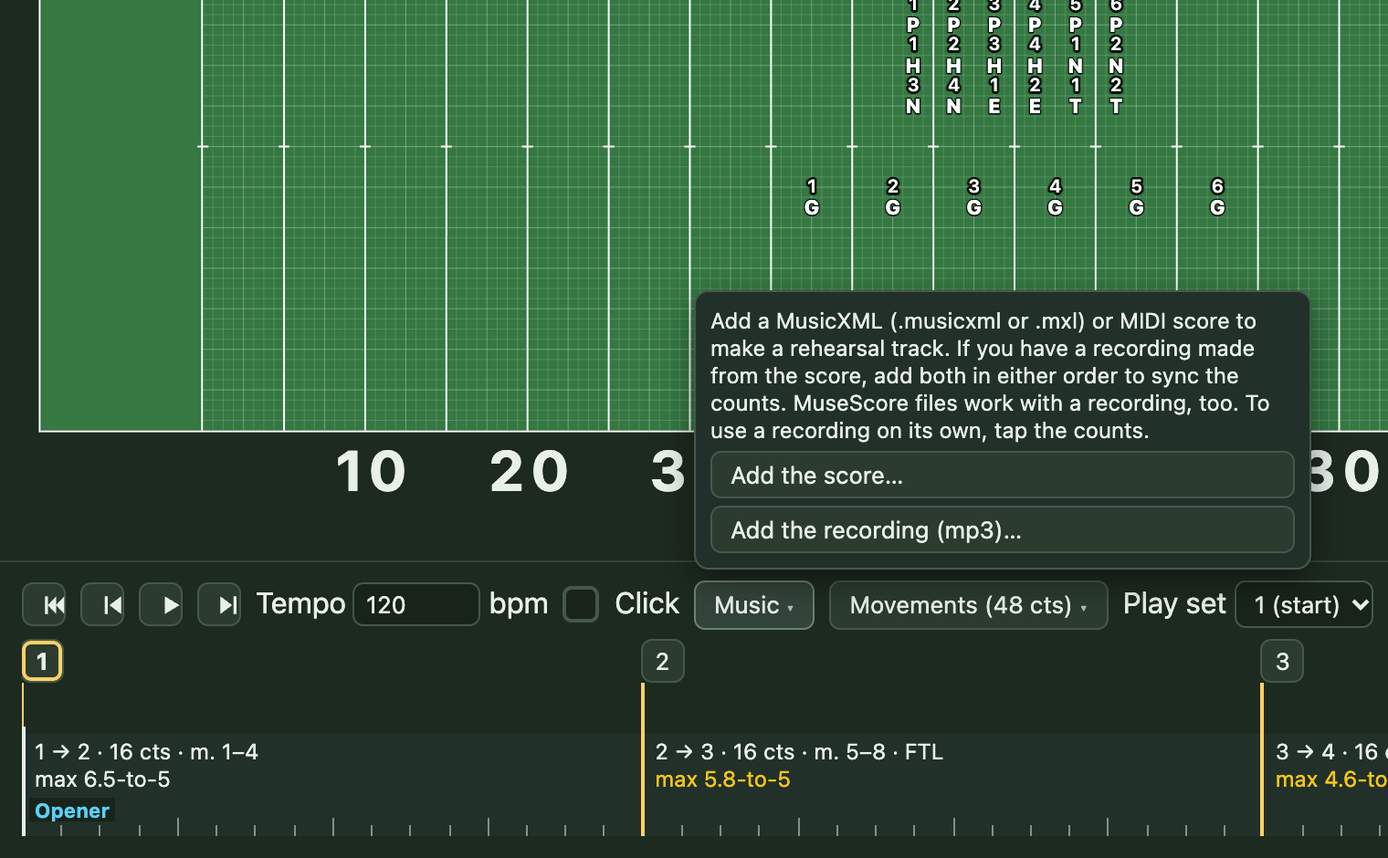
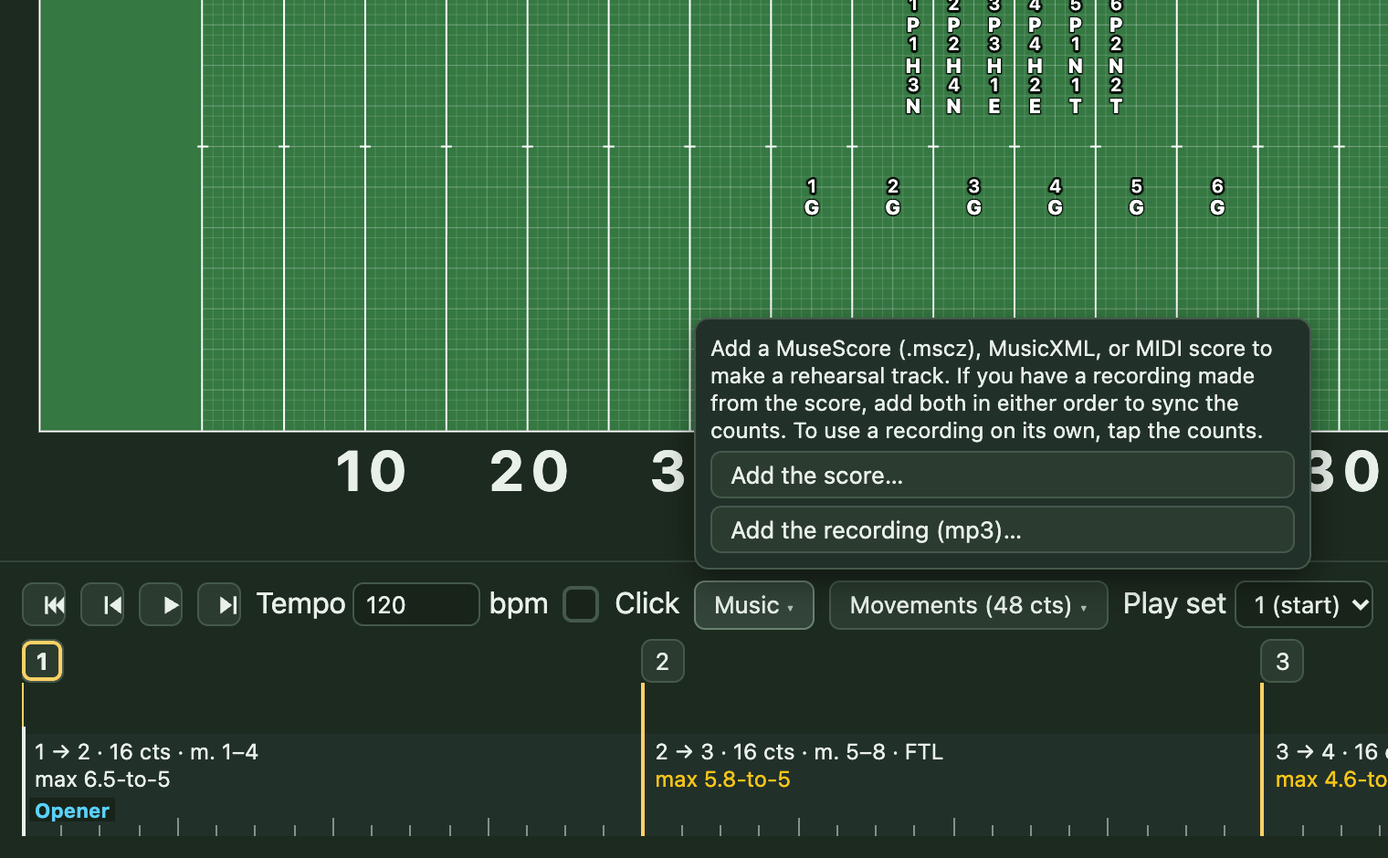
Make rehearsal tracks from native MuseScore scores
Read notes directly from the native score and render them against the same repeated measures and tempo map as the drill counts.

Changed region(s): [[0.4947, 0.3394, 0.9586, 0.5245]]

diff --git a/src/engine/musicxml.ts b/src/engine/musicxml.ts
@@ -271,15 +271,20 @@ async function readZip(buf: ArrayBuffer, what: string): Promise<Record<string, (
 /** The main score file inside a compressed MusicXML (.mxl) zip. */
 export async function unzipMxl(buf: ArrayBuffer): Promise<string> {
   const files = await readZip(buf, '.mxl');
-  const container = files['META-INF/container.xml'] && parseXml(await files['META-INF/container.xml']());
-  const rootfile = container && findDeep(container, 'rootfile')?.attrs['full-path'];
+  return readMxl(files, await scorePaths(files));
+}
+
+function readMxl(files: Record<string, () => Promise<string>>, [rootfile]: string[]): Promise<string> {
   const main = (rootfile && files[rootfile]) ? rootfile : Object.keys(files).find((f) => !f.startsWith('META-INF/') && /\.(musicxml|xml)$/i.test(f));
   if (!main) throw new Error('No score was found inside that .mxl file.');
   return files[main]();
 }
 
-function findDeep(e: El, tag: string): El | undefined {
-  for (const k of e.kids) { if (k.tag === tag) return k; const f = findDeep(k, tag); if (f) return f; }
+async function scorePaths(files: Record<string, () => Promise<string>>): Promise<string[]> {
+  const read = files['META-INF/container.xml'];
+  if (!read) return [];
+  const rootfiles = kid(kid(parseXml(await read()), 'container'), 'rootfiles');
+  return (rootfiles?.kids ?? []).filter((e) => e.tag === 'rootfile').map((e) => e.attrs['full-path']);
 }
 
 /** The score's timing and, when available, its notes for a rehearsal track. File types are detected by content. */
@@ -290,13 +295,15 @@ export async function parseScore(buf: ArrayBuffer): Promise<Midi & { rehearsal?:
   if (sig === 'MThd') return { ...parseMidi(buf), rehearsal: buf };
   if (sig.startsWith('PK')) {
     const files = await readZip(buf, 'score');
-    const mscx = Object.keys(files).find((f) => !f.includes('/') && /\.mscx$/i.test(f)); // a MuseScore .mscz (its parts live in Excerpts/)
-    if (mscx) return parseMscx(await files[mscx]());
-    const { map, rehearsal } = readMusicXml(await unzipMxl(buf), true);
+    const paths = await scorePaths(files);
+    const mscx = paths.find((f) => /\.mscx$/i.test(f) && files[f])
+      ?? Object.keys(files).find((f) => !f.includes('/') && /\.mscx$/i.test(f)); // older archives may lack a manifest
+    if (mscx) return readMscx(await files[mscx]());
+    const { map, rehearsal } = readMusicXml(await readMxl(files, paths), true);
     return { ...map, rehearsal };
   }
-  if (/<museScore\b/.test(new TextDecoder().decode(buf.slice(0, 2000)))) return parseMscx(new TextDecoder().decode(buf)); // an uncompressed .mscx
   const text = new TextDecoder().decode(buf);
+  if (/<museScore\b/.test(text.slice(0, 2000))) return readMscx(text); // an uncompressed .mscx
   if (/<score-(partwise|timewise)\b/.test(text.slice(0, 5000))) {
     const { map, rehearsal } = readMusicXml(text, true);
     return { ...map, rehearsal };
@@ -309,10 +316,15 @@ const frac = (t: string | undefined) => { const [a, b] = (t ?? '').split('/').ma
 const isGrace = (c: El) => c.kids.some((k) => /^(grace|acciaccatura|appoggiatura)/.test(k.tag));
 
 /**
- * A MuseScore 4 score (the .mscx inside a .mscz): measures and their real lengths (an irregular bar's `len`, else
- * its meter), tempo marks (stored in quarters per second), fermatas with their stretch, and whether anything sounds.
+ * A MuseScore score (the .mscx inside a .mscz): measures and their real lengths (an irregular bar's `len`, else
+ * its meter), tempo marks (stored in quarters per second), fermatas with their stretch, and notes for rehearsal.
  */
 export function parseMscx(text: string): Midi & { warnings: string[] } {
+  const { rehearsal: _, ...map } = readMscx(text, false);
+  return map;
+}
+
+function readMscx(text: string, readNotes = true) {
   if (text.length > MAX_BYTES) throw new Error('That file is too big to be a score.');
   const ms = parseXml(text).kids.find((k) => k.tag === 'museScore');
   const version = parseFloat(ms?.attrs.version ?? '');
@@ -326,8 +338,22 @@ export function parseMscx(text: string): Midi & { warnings: string[] } {
   const bars: Bar[] = Array.from({ length: count }, () => ({ len: 0, beats: 4, den: 4, sounding: false, tempos: [] }));
   const holds: Hold[] = [], onsets: [number, number][] = [];
   const marks: BarMarks[] = Array.from({ length: count }, () => ({}));
+  const instruments = new Map<string, number | null>();
+  if (readNotes) {
+    for (const part of score?.kids.filter((e) => e.tag === 'Part') ?? []) {
+      const instrument = kid(part, 'Instrument');
+      const program = museProgram(instrument);
+      for (const staff of part.kids.filter((e) => e.tag === 'Staff')) {
+        const percussion = kid(staff, 'StaffType')?.attrs.group === 'percussion';
+        instruments.set(staff.attrs.id, percussion ? null : program);
+      }
+    }
+  }
+  const parts: RehearsalPart[] = [];
   staves.forEach((st, si) => {
     let beats = 4, den = 4;
+    const program = instruments.get(st.attrs.id);
+    const track: RehearsalPart = { program: program === undefined ? 0 : program, notes: [] };
     // A multi-measure rest is stored as an extra measure in front of the real ones: skip it (MuseScore rebuilds it).
     st.kids.filter((k) => k.tag === 'Measure' && !kid(k, 'multiMeasureRest')).forEach((m, i) => {
       const bar = bars[i];
@@ -339,12 +365,14 @@ export function parseMscx(text: string): Midi & { warnings: string[] } {
         else if (e.tag === 'Jump') {
           const t = (tag: string) => kid(e, tag)?.text.trim() ?? '';
           marks[i].jump = { to: t('jumpTo') || 'start', until: t('playUntil') || 'end', ...(t('continueAt') ? { continueAt: t('continueAt') } : {}), ...(num(kid(e, 'playRepeats')) ? { playRepeats: true } : {}) };
-        } else if (e.tag === 'Spanner' && e.attrs.type === 'Volta' && kid(e, 'Volta')) { // its end is this many bars on
-          const n = num(kid(kid(kid(e, 'next'), 'location'), 'measures')) || 1;
+        } else if (e.tag === 'Spanner' && e.attrs.type === 'Volta' && kid(e, 'Volta')) {
+          const location = kid(kid(e, 'next'), 'location');
+          // A volta can end at the next downbeat or inside its final bar (including the end of the score).
+          const n = Math.max(1, (num(kid(location, 'measures')) || 0) + (frac(kid(location, 'fractions')?.text) > 0 ? 1 : 0));
           for (let k = i; k < Math.min(count, i + n); k++) addEndings(marks[k], endingNumbers(kid(kid(e, 'Volta'), 'endings')?.text));
         }
       }
-      for (const v of m.kids.filter((k) => k.tag === 'voice')) {
+      for (const [vi, v] of m.kids.filter((k) => k.tag === 'voice').entries()) {
         let pos = 0;
         const tup = [1];
         let fermata = 0; // the stretch of a fermata waiting for its chord or rest
@@ -357,8 +385,25 @@ export function parseMscx(text: string): Midi & { warnings: string[] } {
           else if (e.tag === 'Fermata') fermata = num(kid(e, 'timeStretch')) || 2; // MuseScore 4 holds a fermata twice as long by default
           else if ((e.tag === 'Chord' || e.tag === 'Rest') && !isGrace(e)) {
             const t = kid(e, 'durationType')?.text.trim() ?? '';
-            const d = t === 'measure' ? frac(kid(e, 'duration')?.text) * 4 : (DUR[t] ?? 0) * (2 - 1 / 2 ** (num(kid(e, 'dots')) || 0)) * tup[tup.length - 1];
-            if (e.tag === 'Chord') bar.sounding = true;
+            const d = t === 'measure'
+              ? (frac(kid(e, 'duration')?.text) || frac(m.attrs.len) || beats / den) * 4
+              : (DUR[t] ?? 0) * (2 - 1 / 2 ** (num(kid(e, 'dots')) || 0)) * tup[tup.length - 1];
+            if (e.tag === 'Chord') {
+              bar.sounding = true;
+              if (readNotes && Number.isFinite(d) && d > 0) {
+                for (const note of e.kids.filter((k) => k.tag === 'Note')) {
+                  // MuseScore stores the sounding MIDI pitch even when the part is written transposed.
+                  const key = num(kid(note, 'pitch'));
+                  if (!Number.isInteger(key) || key < 0 || key > 127 || num(kid(note, 'play')) === 0) continue;
+                  const ties = note.kids.filter((k) => k.tag === 'Spanner' && k.attrs.type === 'Tie');
+                  track.notes.push({
+                    bar: i, from: pos, to: pos + d, key: track.program === null && (key < 35 || key > 81) ? 38 : key, voice: String(vi),
+                    tieIn: ties.some((k) => !!kid(k, 'prev')),
+                    tieOut: ties.some((k) => !!kid(k, 'next')),
+                  });
+                }
+              }
+            }
             onsets.push([i, pos]);
             if (fermata) { holds.push([i, pos, pos + (d || 0), fermata]); fermata = 0; }
             pos += d || 0;
@@ -369,6 +414,15 @@ export function parseMscx(text: string): Midi & { warnings: string[] } {
       const len = frac(m.attrs.len) * 4; // an irregular bar (a pickup) says how long it really is; otherwise its meter
       bar.len = Number.isFinite(len) ? len : Math.max(bar.len, (beats * 4) / den);
     });
+    if (track.notes.length) parts.push(track);
   });
-  return toMap(bars, holds, onsets, playbackOrder(marks, MAX_MEASURES));
+  const playback = playbackOrder(marks, MAX_MEASURES);
+  return { ...toMap(bars, holds, onsets, playback), rehearsal: { parts, order: playback.order } };
+}
+
+function museProgram(instrument: El | undefined): number | null {
+  if (num(kid(instrument, 'useDrumset')) === 1 || kid(instrument, 'Drum')) return null;
+  const program = kid(kid(instrument, 'Channel'), 'program');
+  const n = Number(program?.attrs.value ?? program?.text);
+  return Number.isInteger(n) && n >= 0 && n <= 127 ? n : 0;
 }

diff --git a/src/engine/musicxml.test.ts b/src/engine/musicxml.test.ts
@@ -104,16 +104,78 @@ describe('counts from a MuseScore file', () => {
     const ms = `<museScore version="4.70"><Score><Staff id="1">
       ${bar('<TimeSig><sigN>4</sigN><sigD>4</sigD></TimeSig>', '<startRepeat/>')}
       ${bar('<Spanner type="Volta"><Volta><endings>1</endings></Volta><next><location><measures>1</measures></location></next></Spanner>', '<endRepeat>2</endRepeat>')}
-      ${bar('<Spanner type="Volta"><prev><location><measures>-1</measures></location></prev></Spanner><Spanner type="Volta"><Volta><endings>2</endings></Volta><next><location><measures>1</measures></location></next></Spanner><Marker><label>fine</label></Marker>')}
+      ${bar('<Spanner type="Volta"><prev><location><measures>-1</measures></location></prev></Spanner><Spanner type="Volta"><Volta><endings>2</endings></Volta><next><location><measures>1</measures><fractions>1/1</fractions></location></next></Spanner>')}
+      ${bar('<Marker><label>fine</label></Marker>')}
       ${bar('<Jump><jumpTo>start</jumpTo><playUntil>fine</playUntil></Jump>')}
     </Staff></Score></museScore>`;
     const m = parseMscx(ms);
-    // 1 2, again 1, 2nd ending 3, on to 4, D.C.: 1, last ending 3, Fine.
-    expect(m.measures.map((x) => x.written ?? null)).toEqual([null, null, 1, 3, 4, 1, 3]);
+    // 1 2, again 1, second ending 3–4, on to 5, D.C.: 1, last ending 3–4, Fine.
+    expect(m.measures.map((x) => x.written ?? null)).toEqual([null, null, 1, 3, 4, 5, 1, 3, 4]);
   });
   it('opens a .mscz (a zip) and rejects scores from before MuseScore 3', async () => {
     expect((await parseScore(await zip({ 'score.mscx': mscx, 'Excerpts/part.mscx': '<museScore version="4.70"/>' }))).measures).toHaveLength(4);
     expect(() => parseMscx('<museScore version="2.06"><Score/></museScore>')).toThrow(/older version/);
+  });
+  it('renders a native archive in the drill’s playback order through repeats and both endings', async () => {
+    // The native forms MuseScore writes for repeat bars, a volta to the next bar, and a volta to the end of the score.
+    const rest = (type: string) => `<Rest><durationType>${type}</durationType></Rest>`;
+    const note = (key: number) => `<Chord><durationType>16th</durationType><Note><pitch>${key}</pitch></Note></Chord>`;
+    const tail = rest('16th') + rest('eighth') + rest('half');
+    const volta = (n: number, location: string) => `<Spanner type="Volta"><Volta><endings>${n}</endings></Volta><next><location>${location}</location></next></Spanner>`;
+    const native = `<museScore version="4.70"><Score>
+      <Part><Staff id="1"/><Instrument id="bb-trumpet"><transposeChromatic>-2</transposeChromatic><Channel><program value="56"/></Channel></Instrument></Part>
+      <Staff id="1">
+        <Measure><startRepeat/><voice><Tempo><tempo>2</tempo></Tempo>${rest('quarter')}${note(58)}${tail}</voice></Measure>
+        <Measure><endRepeat>2</endRepeat><voice><Tempo><tempo>1</tempo></Tempo>
+          ${volta(1, '<measures>1</measures>')}${note(62)}${tail}${rest('quarter')}</voice></Measure>
+        <Measure><voice><Tempo><tempo>1.5</tempo></Tempo>
+          ${volta(2, '<fractions>1/1</fractions>')}${note(65)}${tail}${rest('quarter')}</voice></Measure>
+      </Staff></Score></museScore>`;
+    const archive = await zip({
+      'META-INF/container.xml': '<container><rootfiles><rootfile full-path="score_style.mss"/><rootfile full-path="scores/band.mscx"/></rootfiles></container>',
+      'Excerpts/trumpet.mscx': '<museScore version="4.70"/>',
+      'scores/band.mscx': native,
+    });
+    const { rehearsal, ...map } = await parseScore(archive);
+    expect(map).toEqual(parseMscx(native));
+    if (!rehearsal || rehearsal instanceof ArrayBuffer) throw new Error('Expected native rehearsal notes.');
+    expect(rehearsal.order).toEqual([0, 1, 0, 2]);
+    const bytes = scoreMidi(rehearsal, map);
+    const events = BasicMIDI.fromArrayBuffer(bytes).tracks.flatMap((track) => track.events);
+    expect(events.find((e) => e.statusByte === MIDIMessageTypes.programChange)?.data[0]).toBe(56);
+    const notes = events.filter((e) => e.statusByte === MIDIMessageTypes.noteOn);
+    expect(notes.map((e) => e.data[0])).toEqual([58, 62, 58, 65]);
+    const counts = countsFromMidi(map, [{ name: '1', counts: 0 }, { name: '2', counts: 16, measures: '1–4' }]);
+    expect(counts.matched).toBe(1);
+    const entrances = [2, 5, 10, 13].map((i) => counts.taps[i]);
+    expect(entrances).toEqual([0.5, 2, 6.5, 8]);
+    const midiMap = parseMidi(bytes);
+    expect(notes.map((e) => secondsAt(midiMap, e.ticks))).toEqual(entrances);
+    const audio = await renderMidi(soundBank(), bytes);
+    expectEntrances(audio, entrances);
+  });
+  it('reads chord tones, ties, and percussion from independent staves and voices', async () => {
+    const tie = (edge: 'prev' | 'next') => `<Spanner type="Tie"><${edge}><location><measures>1</measures></location></${edge}></Spanner>`;
+    const native = `<museScore version="3.02"><Score>
+      <Part><Staff id="1"/><Instrument><Channel><program value="71"/></Channel></Instrument></Part>
+      <Part><Staff id="2"/><Instrument><useDrumset>1</useDrumset></Instrument></Part>
+      <Staff id="1">
+        <Measure len="1/4"><voice><Chord><durationType>quarter</durationType>
+          <Note><pitch>60</pitch>${tie('next')}</Note><Note><pitch>64</pitch></Note>
+        </Chord></voice></Measure>
+        <Measure><voice><Chord><durationType>quarter</durationType><Note><pitch>60</pitch>${tie('prev')}</Note></Chord></voice></Measure>
+      </Staff><Staff id="2">
+        <Measure len="1/4"><voice><Rest><durationType>measure</durationType></Rest></voice>
+        <voice><location><fractions>1/8</fractions></location><Chord><durationType>eighth</durationType><Note><pitch>38</pitch></Note></Chord></voice></Measure>
+        <Measure><voice><Rest><durationType>measure</durationType></Rest></voice></Measure>
+      </Staff></Score></museScore>`;
+    const { rehearsal, ...map } = await parseScore(new TextEncoder().encode(native).buffer);
+    if (!rehearsal || rehearsal instanceof ArrayBuffer) throw new Error('Expected native rehearsal notes.');
+    const events = BasicMIDI.fromArrayBuffer(scoreMidi(rehearsal, map)).tracks.flatMap((track) => track.events);
+    const notes = events.filter((e) => (e.statusByte & 0xf0) === MIDIMessageTypes.noteOn);
+    expect(notes.map((e) => [e.ticks, e.statusByte & 15, e.data[0]])).toEqual([[0, 0, 60], [0, 0, 64], [240, 9, 38]]);
+    const release = events.find((e) => e.statusByte === MIDIMessageTypes.noteOff && e.data[0] === 60);
+    expect(release?.ticks).toBe(960);
   });
 });
 
@@ -160,15 +222,8 @@ describe('MusicXML rehearsal tracks', () => {
     const midiMap = parseMidi(bytes);
     expect(noteOns.map((e) => secondsAt(midiMap, e.ticks))).toEqual(entrances);
 
-    const file: Uint8Array = readFileSync(new URL('../../public/sounds/GeneralUser-GS.sf3', import.meta.url));
-    const bank = file.buffer.slice(file.byteOffset, file.byteOffset + file.byteLength) as ArrayBuffer;
-    const audio = await renderMidi(bank, bytes);
-    const sample = (s: number) => Math.round(s * audio.sampleRate);
-    for (const at of entrances) {
-      const first = audio.left.findIndex((x, i) => i >= sample(at - 0.06) && (Math.abs(x) > 0.01 || Math.abs(audio.right[i]) > 0.01));
-      expect(first / audio.sampleRate).toBeGreaterThanOrEqual(at - 0.003);
-      expect(first / audio.sampleRate).toBeLessThan(at + 0.04);
-    }
+    const audio = await renderMidi(soundBank(), bytes);
+    expectEntrances(audio, entrances);
     expect(audio.left.length / audio.sampleRate).toBeCloseTo(secondsAt(map, map.end) + 2, 3);
   });
 
@@ -188,6 +243,20 @@ describe('MusicXML rehearsal tracks', () => {
     expect(release?.ticks).toBe(960);
   });
 });
+
+function soundBank(): ArrayBuffer {
+  const file: Uint8Array = readFileSync(new URL('../../public/sounds/GeneralUser-GS.sf3', import.meta.url));
+  return file.buffer.slice(file.byteOffset, file.byteOffset + file.byteLength) as ArrayBuffer;
+}
+
+function expectEntrances(audio: Awaited<ReturnType<typeof renderMidi>>, entrances: number[]) {
+  for (const at of entrances) {
+    const start = Math.round((at - 0.06) * audio.sampleRate);
+    const first = audio.left.findIndex((x, i) => i >= start && Math.max(Math.abs(x), Math.abs(audio.right[i])) > 0.01);
+    expect(first / audio.sampleRate).toBeGreaterThanOrEqual(at - 0.003);
+    expect(first / audio.sampleRate).toBeLessThan(at + 0.04);
+  }
+}
 
 /** A minimal zip (deflated entries), as MuseScore's .mxl export is. */
 async function zip(files: Record<string, string>): Promise<ArrayBuffer> {

diff --git a/src/ui/Music.tsx b/src/ui/Music.tsx
@@ -112,7 +112,7 @@ export function MusicMenu({ show, setShow, audio, onAudio, useMusic, setUseMusic
     <>
       <Menu label={label} pressed={!!(m && synced(m) && useMusic && audio)} title="Play the drill with the show's recording">
         {(close) => <>
-          {!m && <p style={{ margin: 0, fontSize: 12, maxWidth: 320 }}>Add a MusicXML (.musicxml or .mxl) or MIDI score to make a rehearsal track. If you have a recording made from the score, add both in either order to sync the counts. MuseScore files work with a recording, too. To use a recording on its own, tap the counts.</p>}
+          {!m && <p style={{ margin: 0, fontSize: 12, maxWidth: 320 }}>Add a MuseScore (.mscz), MusicXML, or MIDI score to make a rehearsal track. If you have a recording made from the score, add both in either order to sync the counts. To use a recording on its own, tap the counts.</p>}
           {m && <p style={{ margin: 0, fontSize: 12 }}><strong>{m.name}</strong><br />
             {m.taps.length ? `${m.taps.length} of ${total + 1} counts placed${m.taps.length < total + 1 ? '; later counts keep the last pace' : ''}.` : 'No counts yet: add the score, or tap them.'}</p>}
           {m && !audio && <p role="alert" style={{ margin: 0, fontSize: 12, color: 'var(--warn)' }}>{rehearsal ? "The rehearsal track isn't in this browser. Add the score again and make the track to hear it." : `The recording isn't in this browser. Add ${m.name} again to hear it.`}</p>}

diff --git a/src/engine/scoreMidi.ts b/src/engine/scoreMidi.ts
@@ -20,7 +20,7 @@ export const MAX_TRACK_SECONDS = 30 * 60;
 
 /** Write the notes against the same expanded bar starts and tempo events used by drill counts. */
 export function scoreMidi(score: ScoreNotes, map: Midi): ArrayBuffer {
-  if (!map.end || !score.parts.length) throw new Error('That MusicXML score has no playable notes.');
+  if (!map.end || !score.parts.length) throw new Error('That score has no playable notes.');
   if (!Number.isSafeInteger(map.end) || map.end > 0x0fffffff || secondsAt(map, map.end) > MAX_TRACK_SECONDS) {
     throw new Error('That score is too long for a rehearsal track.');
   }
@@ -82,7 +82,7 @@ export function scoreMidi(score: ScoreNotes, map: Midi): ArrayBuffer {
     // The synthesizer measures duration to the last channel event. Keep any written rests at the end.
     midi.controllerChange(map.end, track, channel, MIDIControllers.allNotesOff, 0);
   }
-  if (midi.tracks.length === 1) throw new Error('That MusicXML score has no playable notes.');
+  if (midi.tracks.length === 1) throw new Error('That score has no playable notes.');
   midi.flush();
   return midi.writeMIDI();
 }

diff --git a/PLAN.md b/PLAN.md
@@ -52,9 +52,9 @@
 - ✅ Music on phones: the locked hosted file carries the recording (encrypted with the show's key); the phone view plays along, with a ♪ Music toggle back to tempo. Share links can't carry audio. Tested by Jason on his phone (the 2010 Closer, ~5.6 MB, hosted in a GitHub repo; gists fail on big files). ✅ One-click **Publish to phones** to the director's own GitHub repository (a fine-grained token kept in the browser). Unchanged files aren't re-downloaded (the browser revalidates; GitHub answers 304). Follow-up: a FreeFORM-run upload service if other directors adopt it (no GitHub account needed).
 - ✅ Counts from the score's MIDI (for audio rendered from the score): each set's counts placed in its typed measures. Bars no set covers get a hold sub-set (4A). Checked on the 2008 Mario drill + its MuseScore render (14 of 14 sets, with hold 4A for the m. 33 G.P.).
 - Automatic count finding from a recording alone (`src/engine/beats.ts`, not in the app): on the 2008 Finale-playback mp3s it agreed with the score only ~half the time (half/double-time slips, unrendered sections), so it stays out until it's better; a hybrid (tap a few downbeats, fill from the score, nudge ±60 ms) is the likely next step for real recordings.
-- ✅ Music from MuseScore: **Add the score…** and **Add the recording…**, in either order; the second completes it (Jason: two buttons = two steps). Later, if the export step still bothers: FreeFORM rendering the audio itself (a browser synth and a ~40 MB sound library; MuseScore-basic sound, not Muse Sounds).
+- ✅ Music from MuseScore: **Add the score…** and **Add the recording…**, in either order; the second completes it (Jason: two buttons = two steps).
 - ✅ Music follow-ups: re-tap from a given count; the recording's waveform on the timeline, aligned to the counts; counts from the MuseScore file itself (.mscz), MusicXML or .mxl (no MIDI needed; fermatas as MuseScore plays them). Repeats, endings, D.C., D.S., Fine, and Coda played out in MusicXML and MuseScore files, with bars numbered in the order heard.
-- ✅ Rehearsal tracks from MIDI, MusicXML, and compressed MusicXML (.mxl): rendered in the browser with GeneralUser GS and stored like recordings. MusicXML notes and drill counts use the same playback order and tempo map through repeats and endings. Next: native MuseScore files; later, marching percussion sounds.
+- ✅ Rehearsal tracks from native MuseScore (.mscz), MusicXML (.musicxml and .mxl), and MIDI. The notes and drill counts use the same playback order and tempo map through repeats and endings. Tracks use GeneralUser GS and are stored like recordings. Later: marching percussion sounds.
 - ✅ Basketball court (94 by 50 feet, with its lines) and a custom floor sized in feet: coordinates from the center line and the nearer front or back edge; drawn on the field, phones, and charts. Picked when you start a show (**New** asks for the title and the surface, remembering the last one), and on the blank field's Start note. Follow-ups: **Place exactly** on floors; a numbered tarp grid; parade routes.
 - ✅ Pyware 3D .3dj import (sets, counts, notes, measures, sections from symbols/figures, hashes). ✅ Set names from the notes (2A, 3A…) and count-by-count paths for moves that aren't straight; ✅ their path lines follow the real route in the editor. ✅ A follow-the-leader that Pyware saved as straight lines (the dots collapse onto one spot mid-move) is rebuilt as an FTL group (2026-11-10). Printed charts show only each set's spots (Jason). Follow-ups: .3dj files with no sets (backups/drafts); the CaneRidge Part 2/3 variant with no PAGE blocks.
 - ✅ iPhone Duo (foldable): closed = phone (performer view), open = small iPad (editor), switching live on fold and unfold; editor labels shorten at 700 px and under. Checked in emulation at WebKit's published sizes. Follow-ups: a check in Device Hub's iPhone Duo simulator (Xcode 27.1+); (done: a slimmer timeline on short touch screens, about 36% more field on the open Duo on its side); the Device Posture and Viewport Segments APIs (behind Safari feature flags) for a half-folded layout.

diff --git a/DECISIONS.md b/DECISIONS.md
@@ -1706,3 +1706,9 @@ Each entry: timestamp, who decided, context, options considered, decision.
 - FreeFORM already read the bar and tempo map from MusicXML. We considered adding a separate score converter, which would have to interpret repeats and tempo marks the same way as the count reader.
 - The notes now use the same expanded bars and tempo map as the counts. The existing worker writes MIDI from that shared timing and renders it with the same instrument library. For rehearsal, it plays pitches, chords, ties, and standard drum-kit sounds with a steady note velocity. The tests compare rendered audio with the drill counts on both passes and in each ending.
 - Chrome's AAC encoder and container added about 60 ms to the entrances in the test score. New rehearsal tracks use Opus in WebM where the browser can encode and play it, with WAV as the fallback. The saved Opus track's four entrances were within 14 ms of the expected counts.
+
+## 2026-11-13 10:57 EST — Native MuseScore rehearsal tracks
+
+- Jason asked for rehearsal tracks directly from `.mscz` files, with audio in sync through repeats and endings. The playback details are Codex's choices, subject to Jason's review.
+- FreeFORM already used these files for counts. We considered an external MuseScore conversion step. The native reader now reads note pitches and ties as it builds the count map, and the existing browser renderer uses that same bar order and timing.
+- For rehearsal, each staff uses its starting instrument with steady note velocity, and unpitched percussion uses a standard drum kit. A score saved in MuseScore 4.7.6 was checked against MuseScore's MIDI export. In Chrome, all four audio entrances through the repeat and both endings landed within 6 ms of the expected counts for both Opus and WAV.

diff --git a/docs/HOW-TO.md b/docs/HOW-TO.md
@@ -388,7 +388,7 @@ You can do steps 2 and 3 in either order. Once both are in, FreeFORM takes the t
 
 **With any recording, by tapping:** add just the recording (mp3, m4a, or wav), then choose **Tap counts…**. FreeFORM plays it from the top while you press Space on every count, starting with count 0 (set 1). You can undo a tap, pause, or start over. To fix part of it later, set **Redo from count** first.
 
-**With no recording, a rehearsal track:** add the score as MusicXML (`.musicxml`, `.xml`, or `.mxl`) or MIDI, then choose **Make a rehearsal track**. In MuseScore, use **File → Export** to make one of those files. FreeFORM plays the score with standard instrument sounds, and the counts follow the same repeats, endings, and tempos as the audio. For MusicXML, it plays the written notes and ties with a steady volume. Unpitched percussion uses a standard drum kit.
+**With no recording, a rehearsal track:** add a MuseScore score (`.mscz`), MusicXML (`.musicxml`, `.xml`, or `.mxl`), or MIDI, then choose **Make a rehearsal track**. FreeFORM plays the score with standard instrument sounds, and the counts follow the same repeats, endings, and tempos as the audio. For MuseScore and MusicXML, it plays the notes and ties with a steady volume. MuseScore parts use their starting instruments, and unpitched percussion uses a standard drum kit.
 
 It takes a few seconds. The first time, FreeFORM downloads the instrument sounds (about 7 MB). After that, they work offline. The track goes along in **Full backup…** and in shared files with the music included. When the real recording comes in, choose **Use a real recording instead…**.
 

diff --git a/README.md b/README.md
@@ -50,7 +50,7 @@ A note on where the ideas came from: FreeFORM is modeled on Pyware and the Ultim
 **Timing and music**
 - A timeline you can scrub count by count, play at any tempo (with a click if you like, on the computer or the phone), or loop over a range of sets.
 - Lay out a show by counts first (one movement per tune), then add sets at any count.
-- Sync to a recording: take every count's timing from the score (MuseScore, MusicXML from Finale, Sibelius, or Dorico, or MIDI), with repeats and endings played out, or tap the counts along with any mp3. No recording yet? Make a rehearsal track from MusicXML (`.musicxml` or `.mxl`) or MIDI.
+- Sync to a recording: take every count's timing from the score (MuseScore, MusicXML from Finale, Sibelius, or Dorico, or MIDI), with repeats and endings played out, or tap the counts along with any mp3. No recording yet? Make a rehearsal track from MuseScore (`.mscz`), MusicXML, or MIDI.
 
 **Getting it to the band**
 - Dot sheets (four cards per page, one per page with a notes column, or one per page with a small field picture for each set, like a dot book) and drill charts (one per set, with or without the paths into it), printed or saved as PDF, for the whole show or a range of sets.
